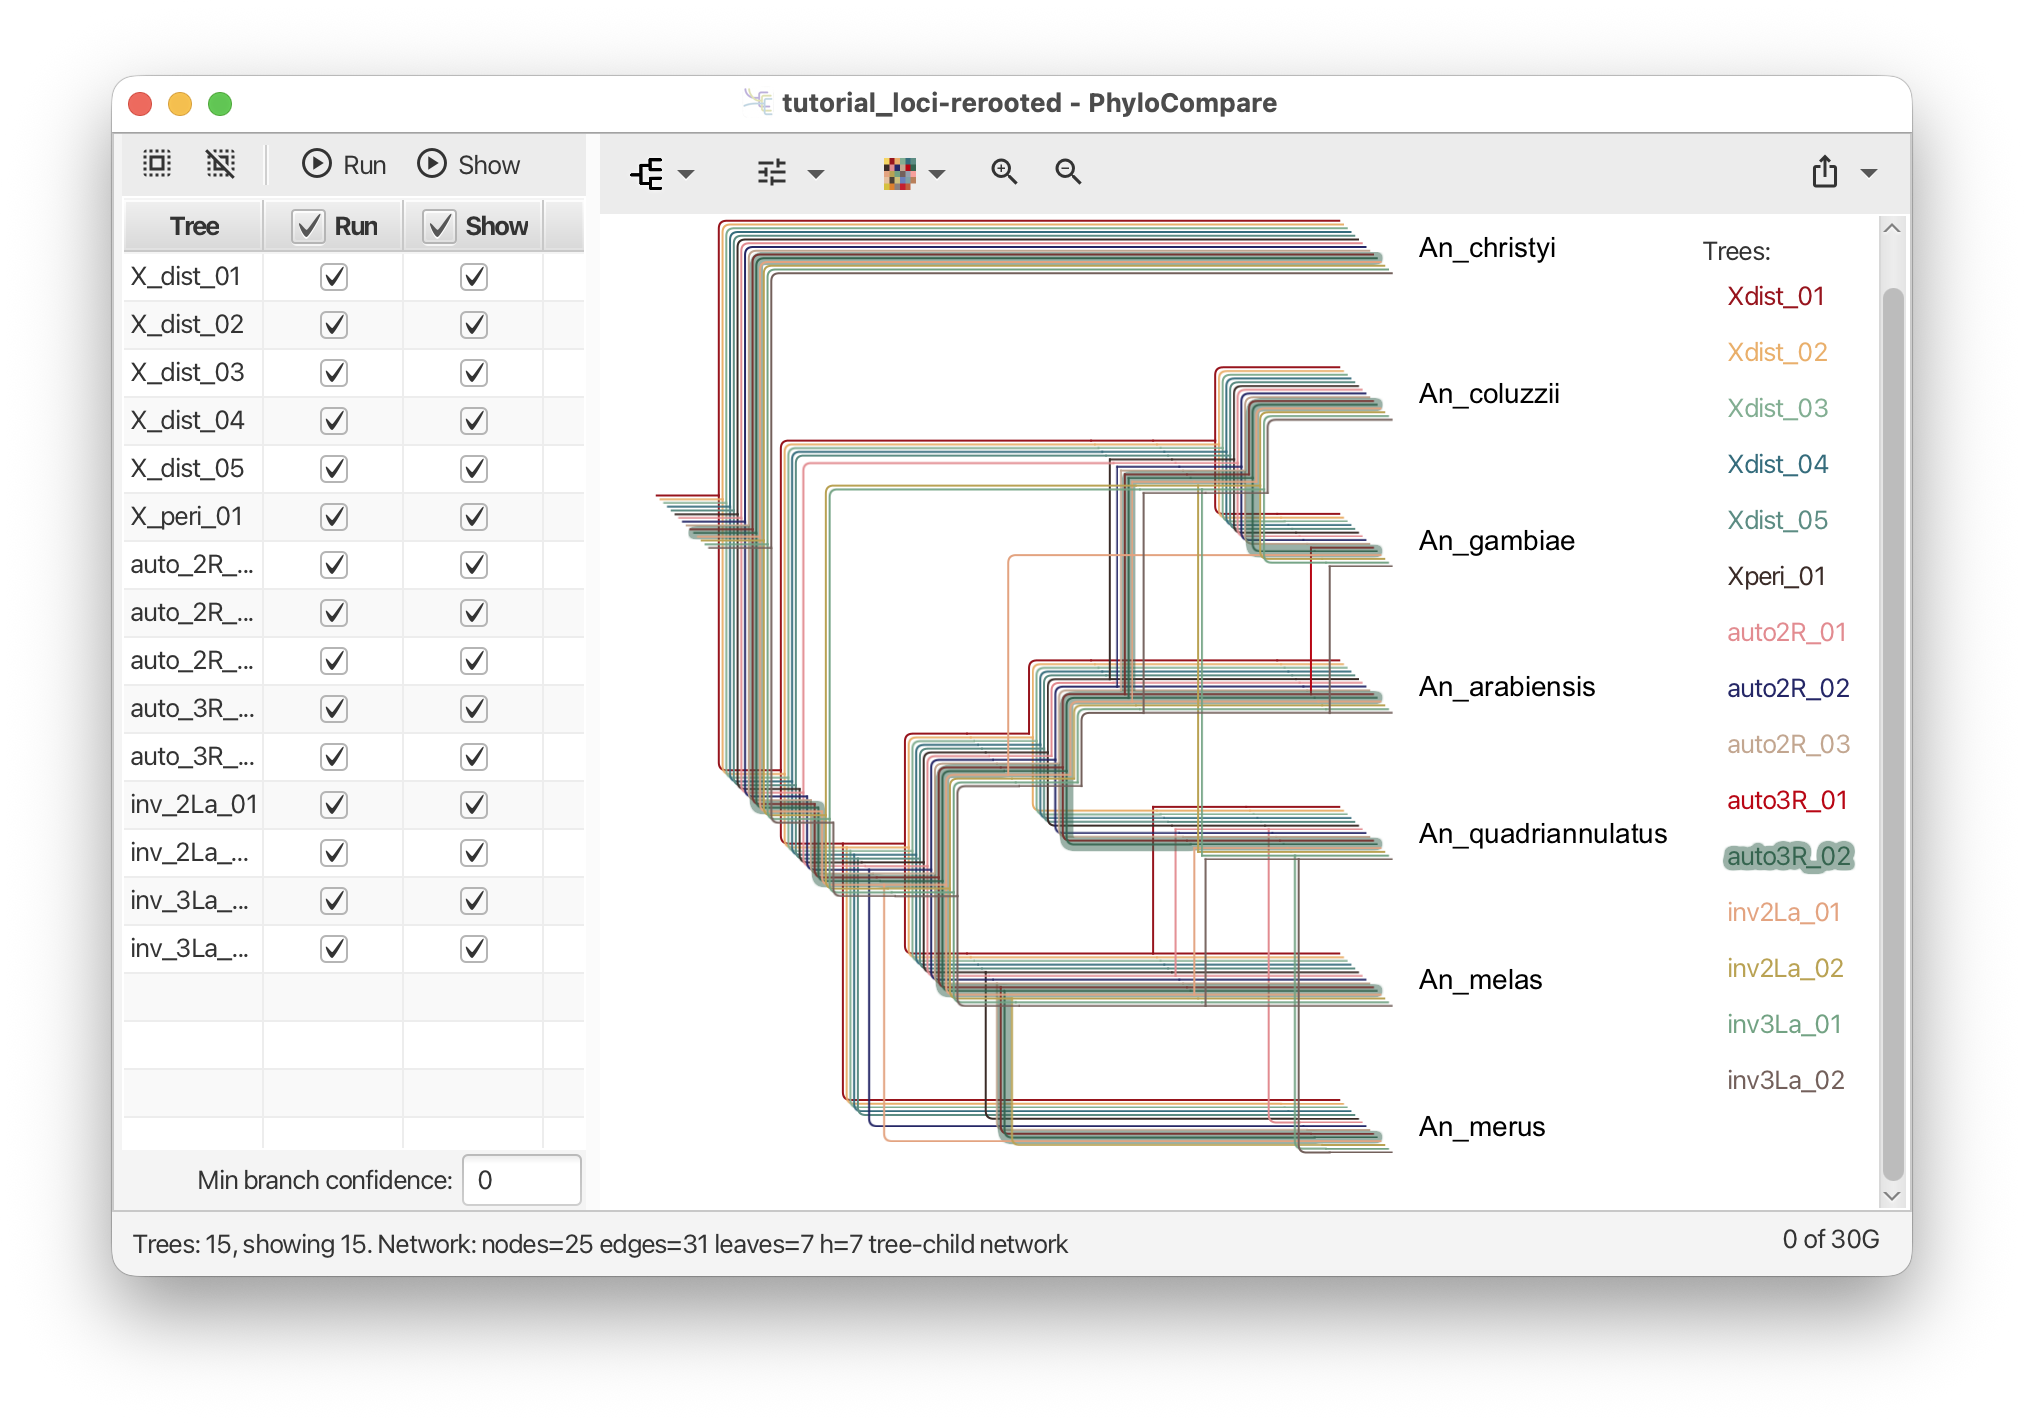
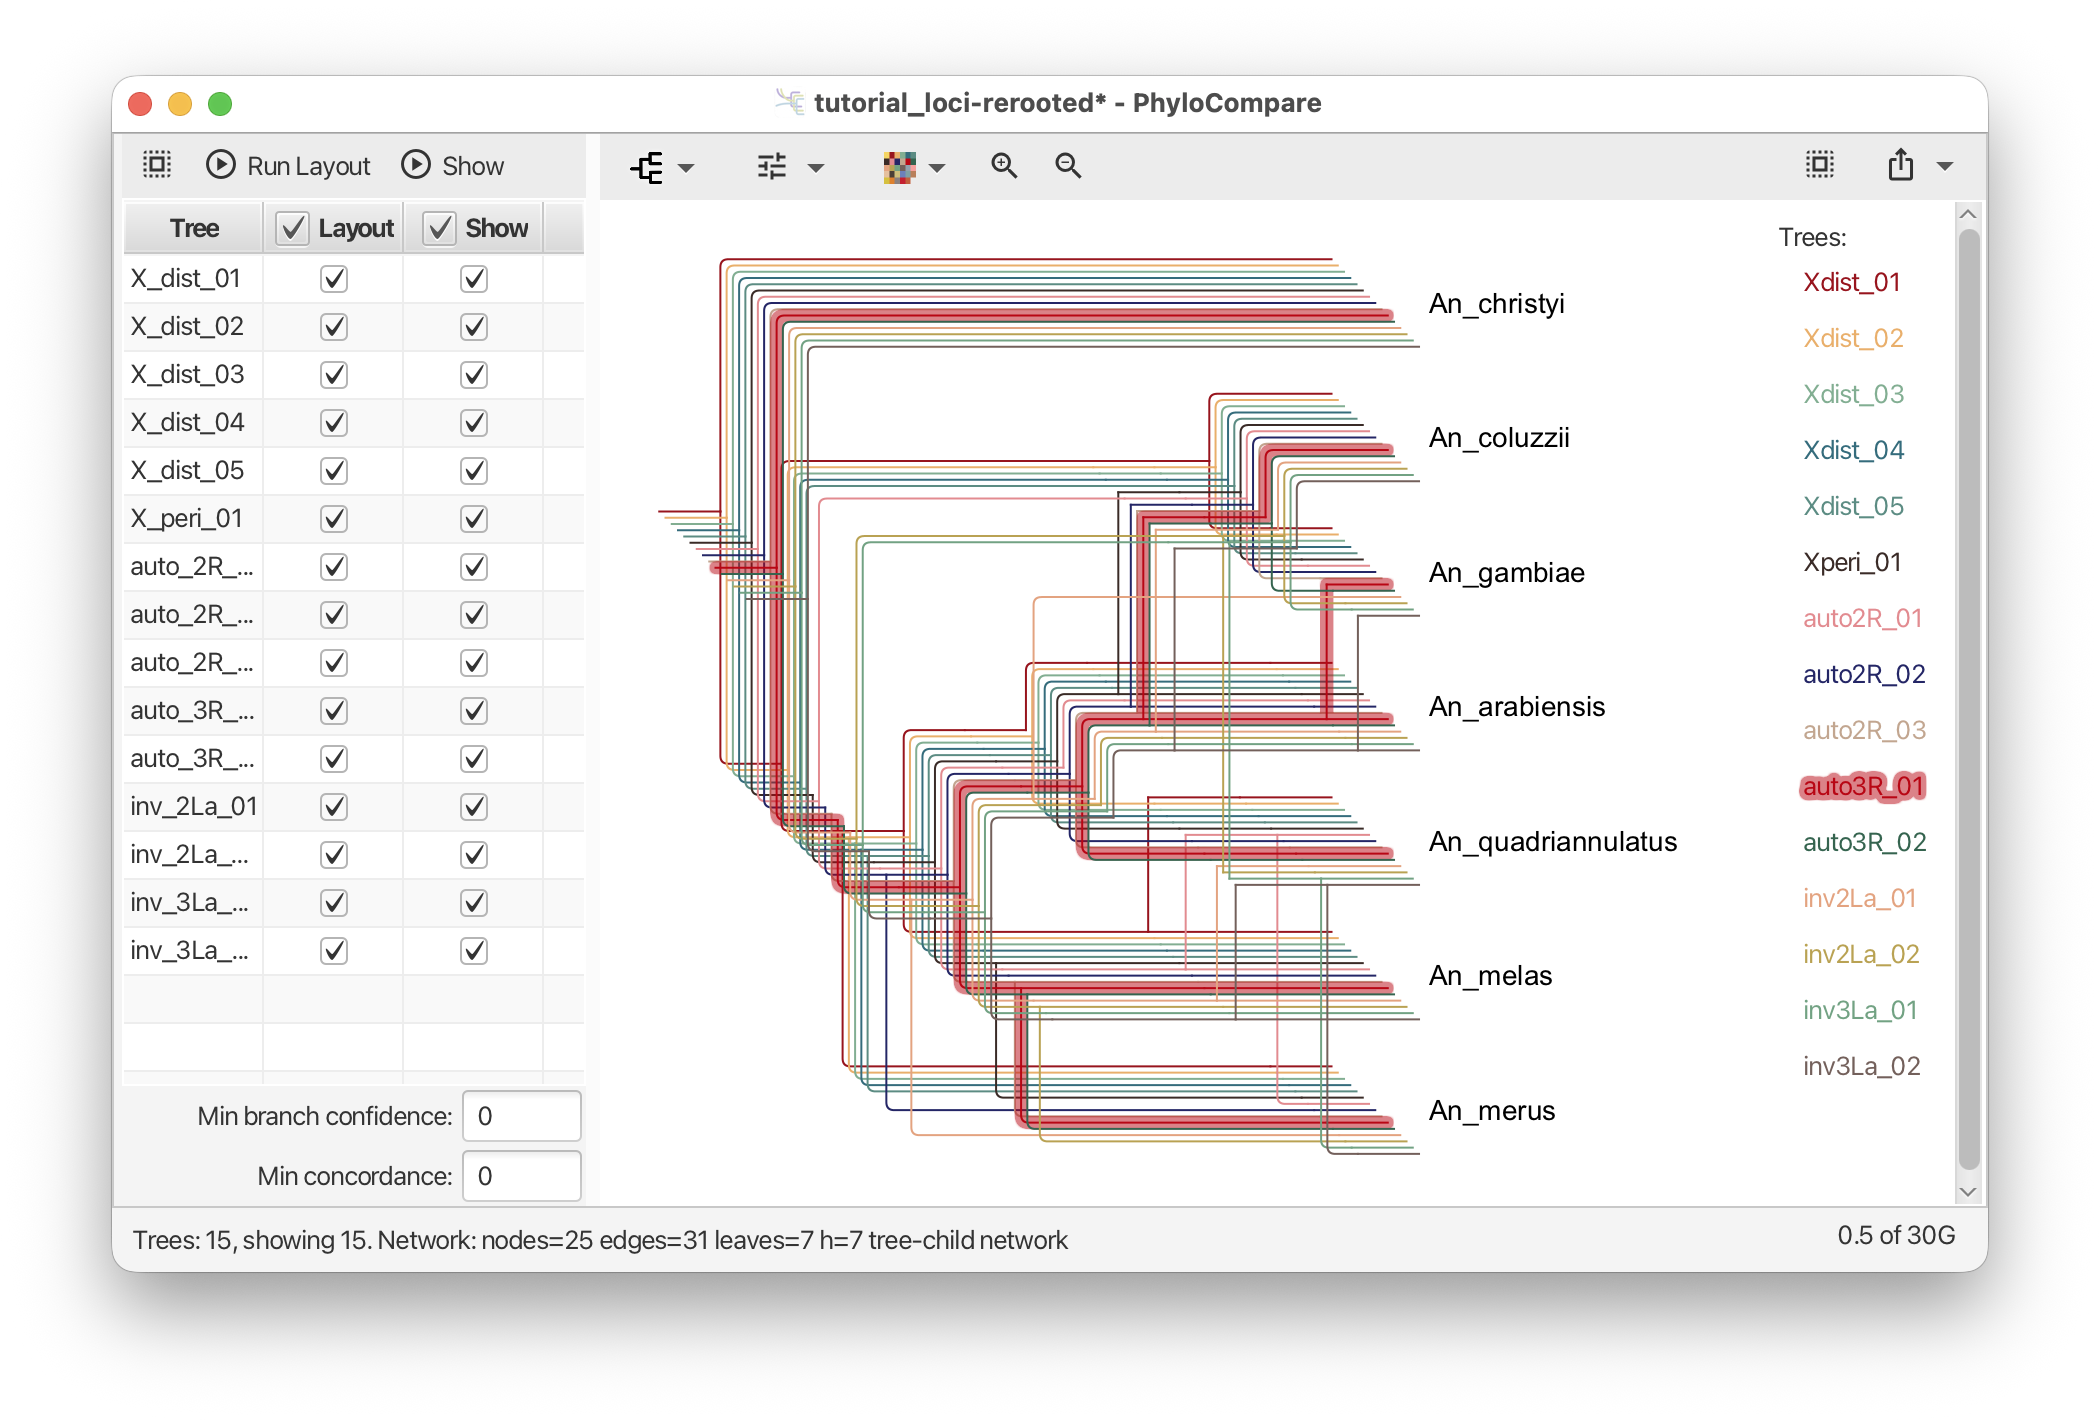
minor

diff --git a/docs/manual.md b/docs/manual.md
@@ -49,7 +49,7 @@ by the divergence of the colored traces.
 ![...](images/multitree-parallelogram.png)
 **Figure 2.** A phylogenetic parallelogram containing fifteen trees. Each color corresponds to one input tree. Shared
 topology is represented by aligned paths, whereas alternative evolutionary histories appear as diverging traces within
-the underlying network.
+the underlying network. Individual trees can be highlighted as shown.
 
 Typical use cases:
 